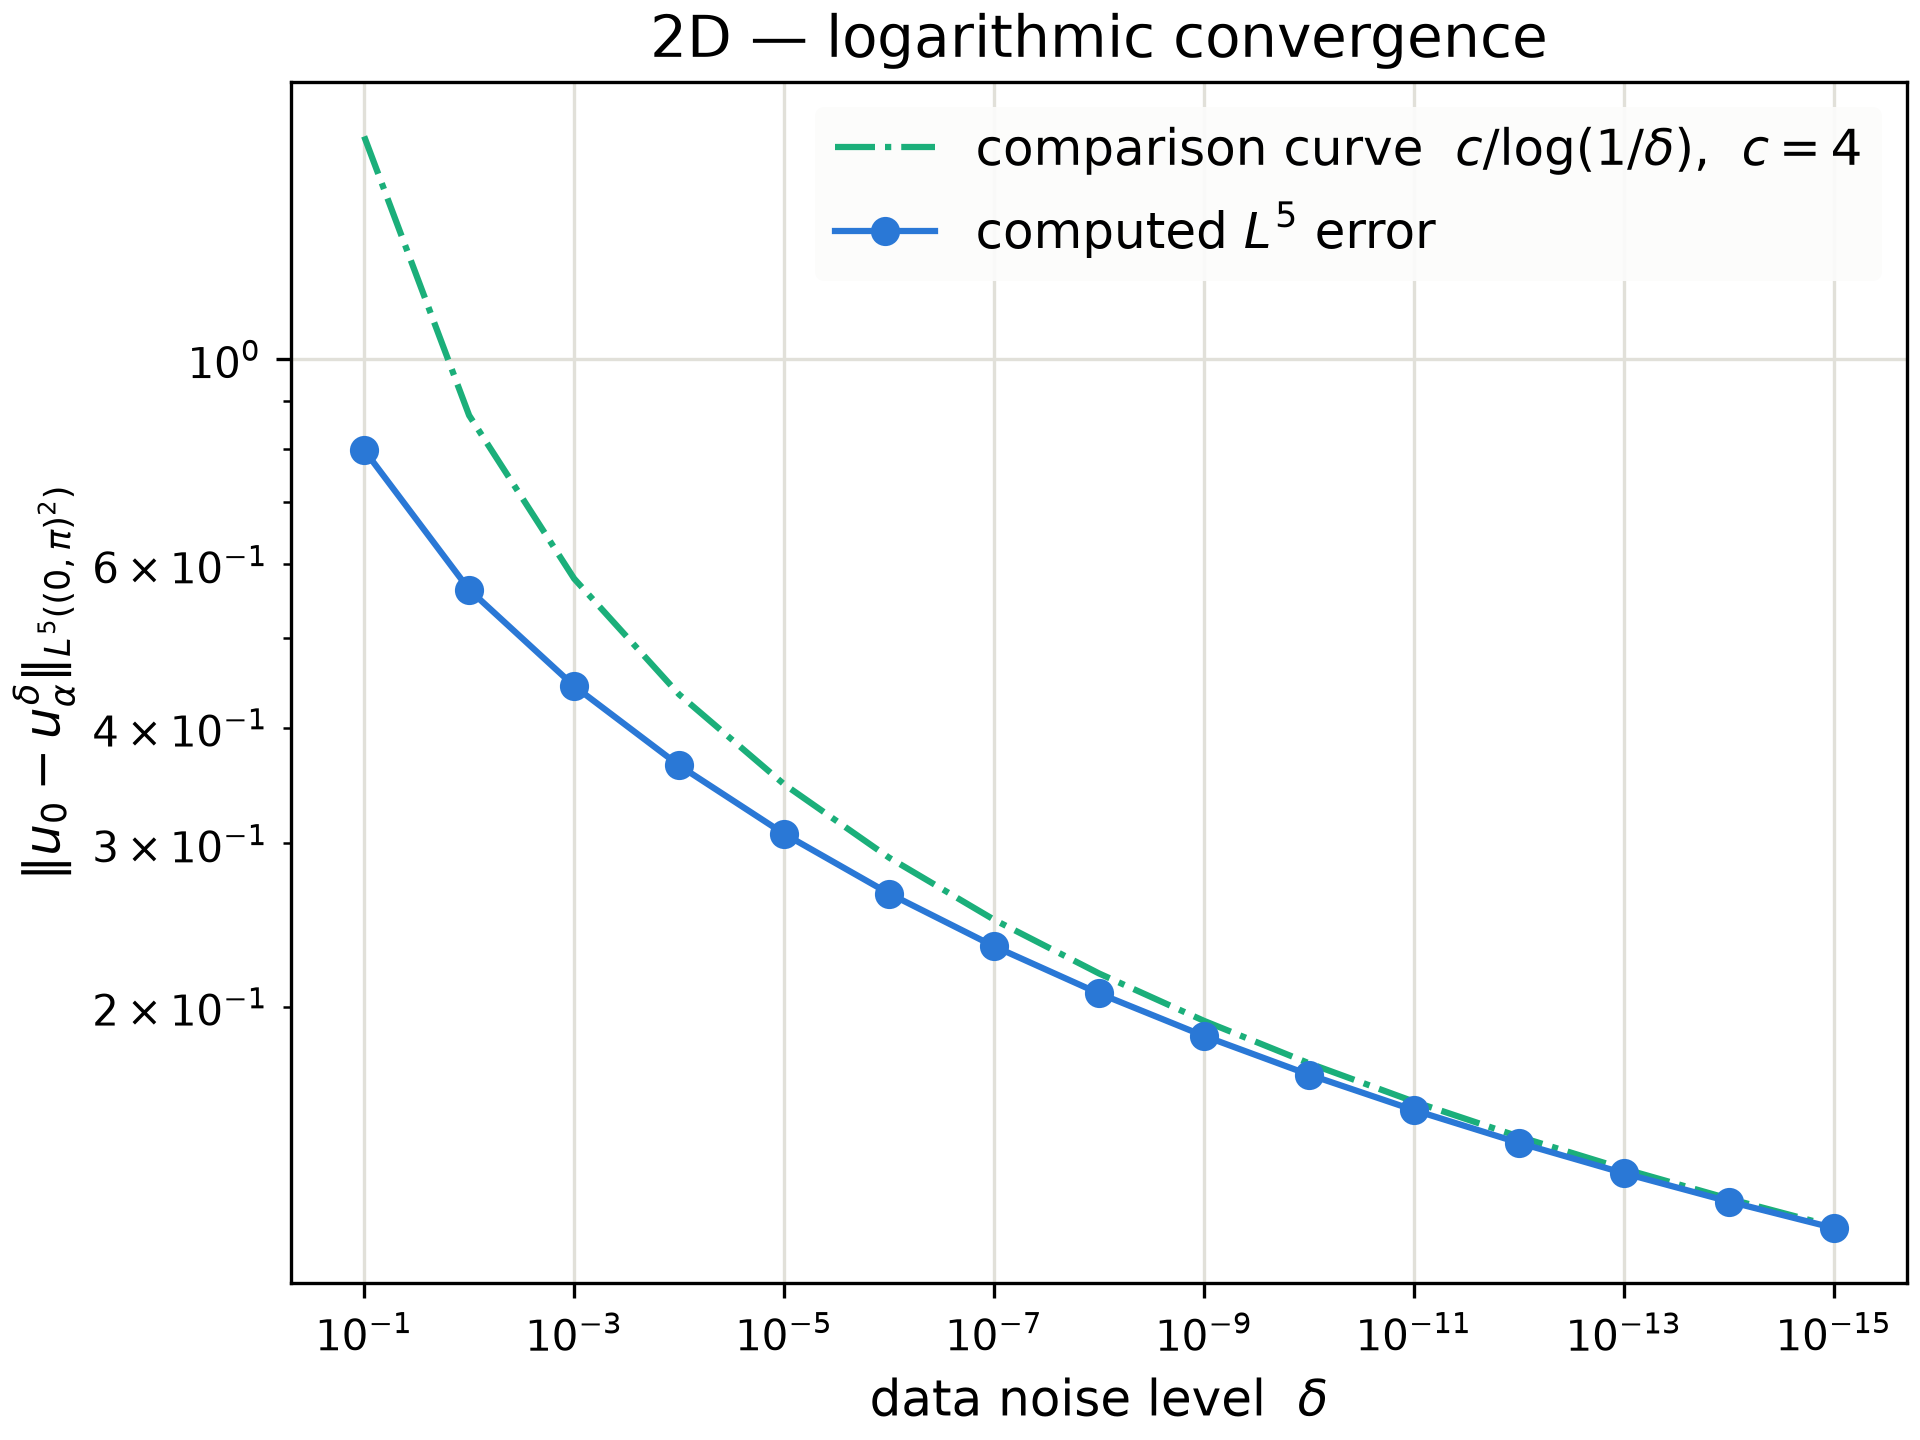
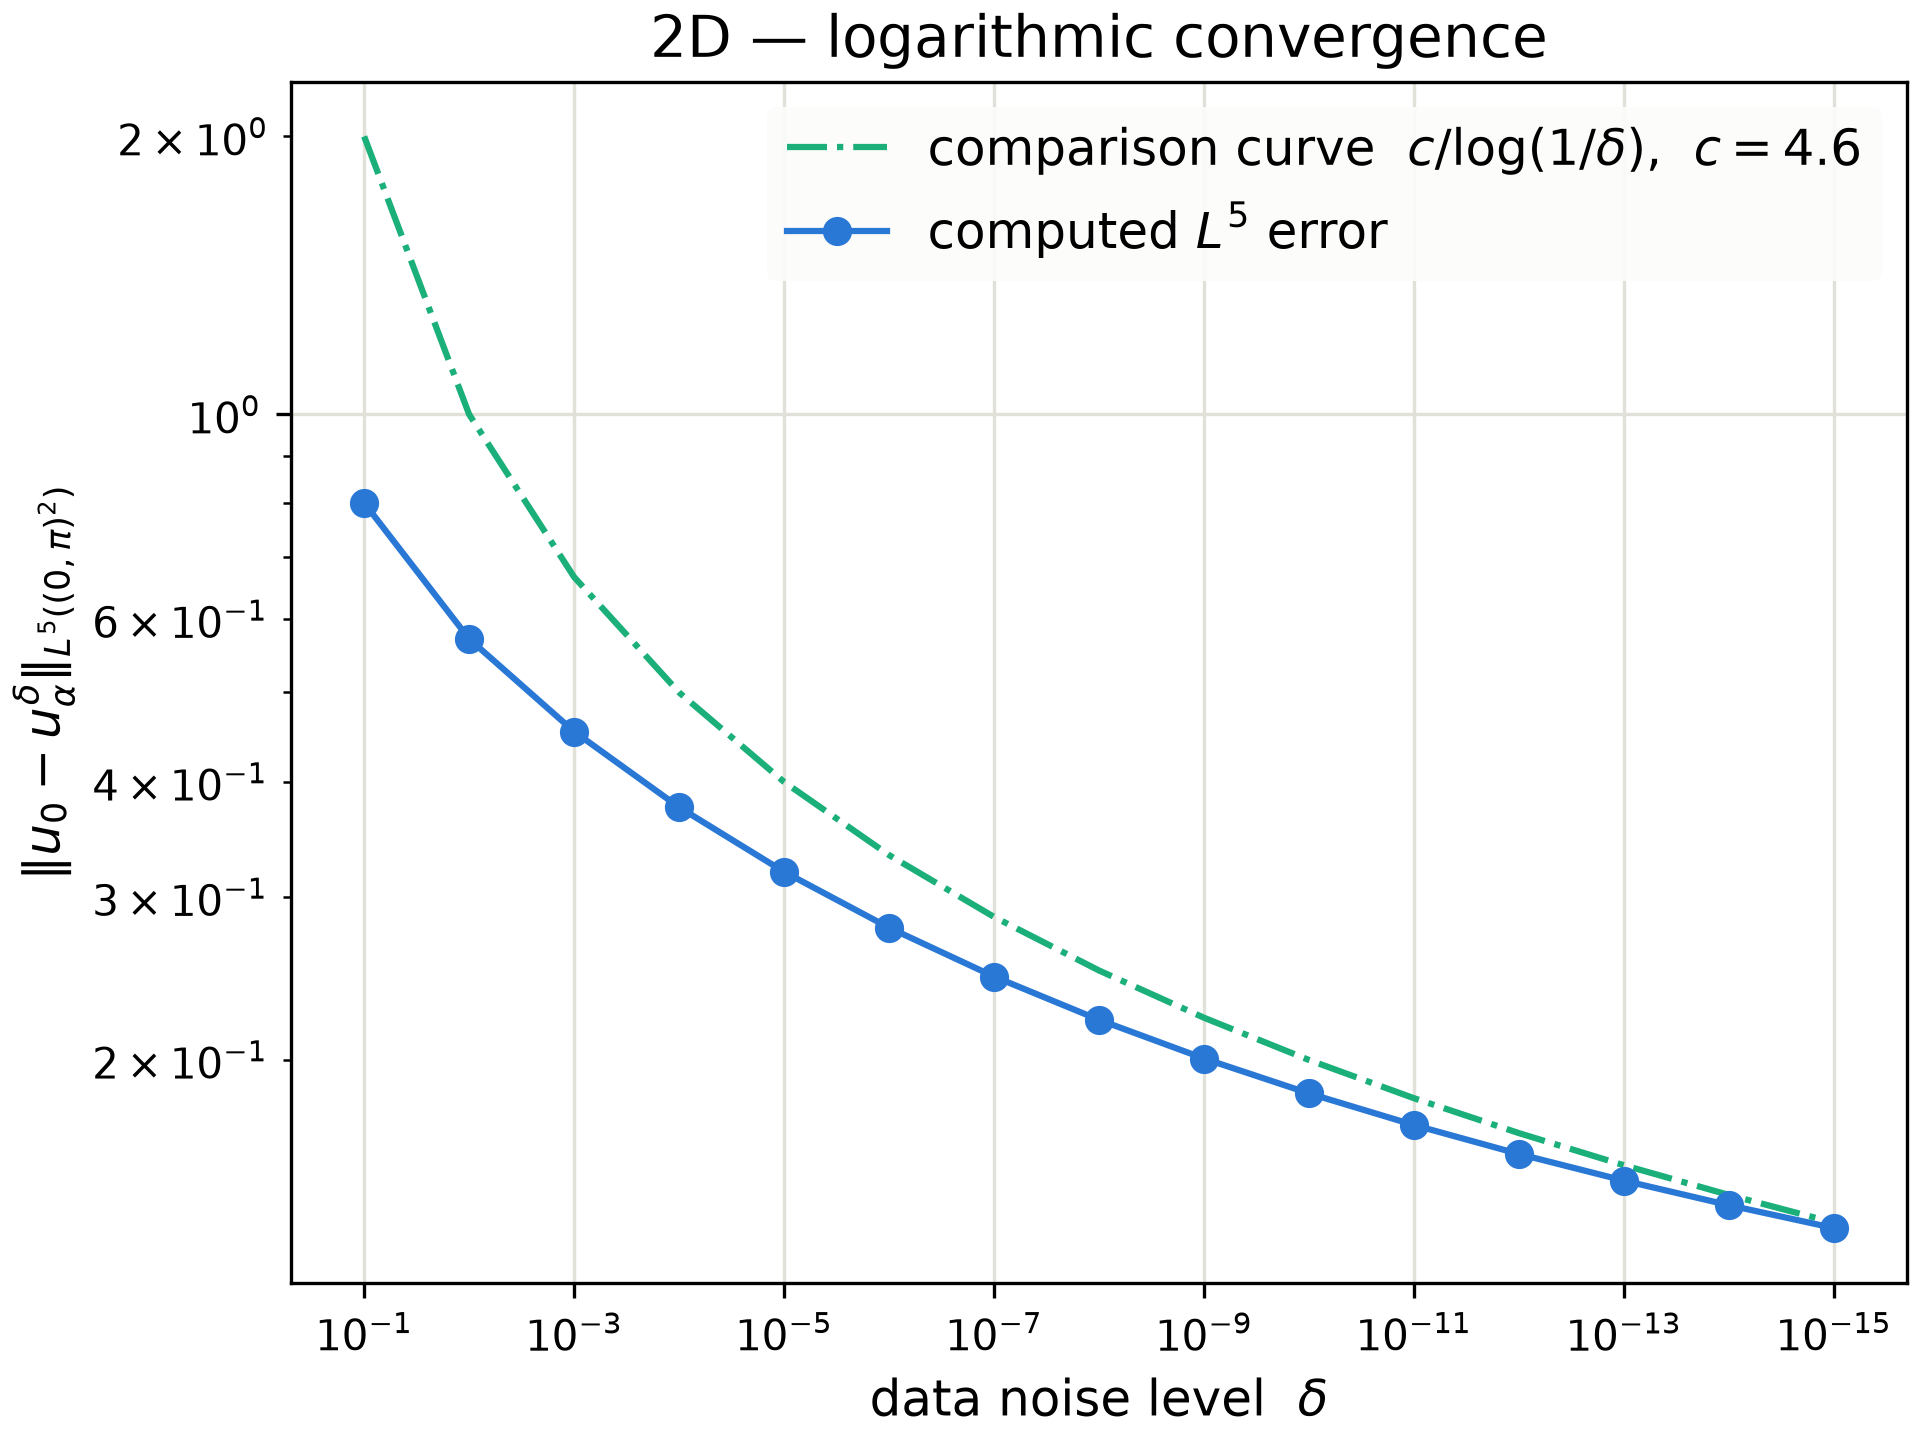
change mesh

diff --git a/QR_backward_diffusion.py b/QR_backward_diffusion.py
@@ -23,6 +23,10 @@ on Omega = (0, pi) and Omega = (0, pi)^2 is demonstrated. The exact solutions ar
     u(x, t)     = exp(-t) sin(x)           on (0, pi),
     u(x, y, t)  = exp(-2t) sin(x) sin(y)   on (0, pi)^2.
 
+The terminal datum is the exact solution at t = T interpolated onto the finite
+element space. In 2D the mesh is quadrilateral with Q1 elements. Besides the figures,
+VTK time series of the exact solution and of every backward solve are written.
+
 Requires Firedrake (https://www.firedrakeproject.org/) and matplotlib.
 
     python QR_backward_diffusion.py --dim 1
@@ -53,7 +57,9 @@ from firedrake import (
     grad,
     inner,
     sin,
+    exp
 )
+from firedrake.output import VTKFile
 from firedrake.pyplot import tripcolor
 
 #--------------------set some constants and parameters--------------------
@@ -67,11 +73,8 @@ S_PURPLE = "#800080"
 S_GREEN = "#008000"
 CURVE_COLOURS = (S_ORANGE, S_PURPLE, S_GREEN)
 
-# ||sin(n x)||_{L^5(0, pi)} = (16/15)^{1/5}. On the square the integral separates and the norm is the product of the 1D norms.
-_L5_INTEGRAL_1D = 16.0 / 15.0
-
 # Prefactors of the comparison curve c / log(1/delta). 
-COMPARISON_CONSTANTS = {1: 1.2, 2: 4.0}
+COMPARISON_CONSTANTS = {1: 1.2, 2: 4.6}
 
 # Which noise levels are drawn, as indices into delta = 10^{-1}, ..., 10^{-15}.
 # One dimension: 1e-1, 1e-2, 1e-7
@@ -79,7 +82,7 @@ COMPARISON_CONSTANTS = {1: 1.2, 2: 4.0}
 _PLOT_FIELDS_1D = (0, 1, 6)
 _PLOT_FIELDS_2D = (0, 2, 14)
 
-#--------------------define some helperfunctions--------------------
+#--------------------define some helper functions--------------------
 def add_legend(ax, **kwargs):
     """Legend with an opaque backing, so lines do not run through the text."""
     return ax.legend(
@@ -95,31 +98,6 @@ def lp_norm(field, p: float) -> float:
     """||field||_{L^p}. For a real field, |field|^p = (field, field)^{p/2}."""
     integrand = inner(field, field) ** (p / 2) * dx
     return float(assemble(integrand) ** (1.0 / p))
-
-
-# def _eigenmode_expression(coords, dim: int, wavenumber: int):
-#     """prod_{i=1}^{dim} sin(wavenumber * x_i), an eigenfunction of -Delta."""
-#     expression = sin(wavenumber * coords[0])
-#     for i in range(1, dim):
-#         expression = expression * sin(wavenumber * coords[i])
-#     return expression
-
-
-#def _noise_amplitude(delta: float, dim: int) -> float:
-#    """
-#    Coefficient of the perturbation mode.
-#
-#    Dividing by the L^5 norm of that mode makes the perturbation itself
-#    have L^5 norm equal to ``delta`` in one dimension. In two dimensions
-#    the same normalization is used and then multiplied by 2, which is the
-#    factor the published figures were computed with: the L^5 norm of the
-#    two-dimensional noise is therefore ``2 * delta``.
-#    """
-#    if dim == 1:
-#        return delta / (_L5_INTEGRAL_1D ** (1.0 / 5.0))
-#    # (16/15)^2 = 256/225 = ||sin(nx) sin(ny)||_{L^5}^5
-#    return 2.0 * delta / ((256.0 / 225.0) ** (1.0 / 5.0))
-
 
 #--------------------define the quasi-reversibility problem--------------------
 class QuasiReversibility:
@@ -141,14 +119,13 @@ class QuasiReversibility:
         if dim == 1:
             self.mesh = IntervalMesh(resolution, 0.0, np.pi)
         else:
-            self.mesh = SquareMesh(resolution, resolution, np.pi)
+            self.mesh = SquareMesh(resolution, resolution, np.pi, quadrilateral=True)
 
         self.dim = dim
         self.final_time = float(final_time)
         self.degree = degree
         self.V = FunctionSpace(self.mesh, "CG", degree)
         self.bc = DirichletBC(self.V, Constant(0.0), "on_boundary")
-        self.coords = SpatialCoordinate(self.mesh)
 
         # Snap dt so that an integer number of steps lands exactly on T.
         self.num_steps = max(1, int(round(self.final_time / dt)))
@@ -159,7 +136,7 @@ class QuasiReversibility:
 
     def initial_state(self) -> Function:
         """
-        Define initial state as a sinus function.
+        Define initial state as a sine function.
         """
         if self.dim == 1:
             x, = SpatialCoordinate(self.mesh)
@@ -169,42 +146,47 @@ class QuasiReversibility:
             expression = sin(x) * sin(y)
         return Function(self.V).interpolate(expression)
 
+    def exact_terminal(self) -> Function:
+        """
+        Define exact terminal state as a sine function.
+        """
+        if self.dim == 1:
+            x, = SpatialCoordinate(self.mesh)
+            expression = exp(-self.final_time) * sin(x)
+        elif self.dim == 2:
+            x,y = SpatialCoordinate(self.mesh)
+            expression = exp(-2*self.final_time) * sin(x) * sin(y)
+        return Function(self.V).interpolate(expression)
+
     def perturb(self, terminal: Function, delta: float) -> Function:
         """
         Copy the terminal Function and add a delta perturbation.
         """
         perturbed = Function(self.V, name=f"terminal_delta_{delta:g}")
-        dim = self.V.mesh().topological_dimension
-        if dim == 1:
-            x, = SpatialCoordinate(self.V.mesh())
+        if self.dim == 1:
+            x, = SpatialCoordinate(self.mesh)
             perturbed.interpolate(terminal + (delta/(16.0/15.0)**(1/5)) * sin(2*x))
-        elif dim == 2:
-            x,y = SpatialCoordinate(self.V.mesh())
+        elif self.dim == 2:
+            x,y = SpatialCoordinate(self.mesh)
             perturbed.interpolate(terminal + delta/(256.0/225.0)**(1/5) * sin(2*x) * sin(2*y))
         return perturbed
 
-    def solve_forward(self, initial: Function) -> Function:
+    def write_exact(self, initial: Function, output: VTKFile) -> None:
         """
-        Integrate the forward heat equation from ``initial`` up to time T.
+        Write the exact solution exp(-dim t) u_0 on the time grid of ``solve_QR``.
         """
-        inv_dt = Constant(1.0 / self.dt)
-        u_prev = Function(self.V)
-        u_prev.assign(initial)
-        u_next = Function(self.V)
+        exact = Function(self.V, name="u_exact")
+        for n in range(self.num_steps + 1):
+            t = self.final_time - n * self.dt
+            exact.assign(np.exp(-self.dim * t) * initial)
+            output.write(exact, time=t)
 
-        # (u^{n+1} - u^n)/dt - Delta u^{n+1} = 0.
-        a = (
-            inv_dt * inner(self._trial, self._test)
-            + inner(grad(self._trial), grad(self._test))
-        ) * dx
-        L = inv_dt * inner(u_prev, self._test) * dx
-
-        for _ in range(self.num_steps):
-            solve(a == L, u_next, self.bc)
-            u_prev.assign(u_next)
-        return u_prev
-
-    def solve_QR(self, terminal: Function, alpha: float) -> Function:
+    def solve_QR(
+        self,
+        terminal: Function,
+        alpha: float,
+        output: VTKFile | None = None,
+    ) -> Function:
         """
         Recover an approximation of u(·, 0) from terminal data.
 
@@ -216,14 +198,20 @@ class QuasiReversibility:
 
         which is the weak form of the quasi-reversibility equation
         (I - alpha Delta) phi = v and v_new = v - dt Delta phi.
+
+        If ``output`` is given, the state is written at every time step.
         """
         inv_dt = Constant(1.0 / self.dt)
         alpha_c = Constant(alpha)
 
-        state = Function(self.V)
+        state = Function(self.V, name="u_alpha_delta")
         state.assign(terminal)
         phi = Function(self.V)
         updated = Function(self.V)
+
+        def write(t: float) -> None:
+            if output is not None:
+                output.write(state, time=t)
 
         # (I - alpha Delta) phi = state, homogeneous Dirichlet conditions.
         a_phi = (
@@ -239,10 +227,12 @@ class QuasiReversibility:
             + inv_dt * inner(state, self._test)
         ) * dx
 
-        for _ in range(self.num_steps):
+        write(self.final_time)
+        for n in range(self.num_steps):
             solve(a_phi == L_phi, phi, self.bc)
             solve(a_state == L_state, updated, self.bc)
             state.assign(updated)
+            write(self.final_time - (n + 1) * self.dt)
         return state
 
 #--------------------define plotting functions--------------------
@@ -411,7 +401,7 @@ def demonstrate_convergence(
 ):
     """
     Sweep delta from 10^{-1} down to 10^{-15} and plot the L^p error.
-    ``comparison_constant`` defaults to 1.2 in 1D and 4 in 2D.
+    ``comparison_constant`` defaults to 1.2 in 1D and 4.6 in 2D.
     Figures are written in the working directory. Set ``show=True`` to
     open them as well.
     """
@@ -425,14 +415,17 @@ def demonstrate_convergence(
 
     problem = QuasiReversibility(dim, T, dt, resolution, degree)
     initial = problem.initial_state()
-    terminal = problem.solve_forward(initial)
+    terminal = problem.exact_terminal()
+
+    problem.write_exact(initial, VTKFile(f"exact_dim_{dim}.pvd"))
 
     perturbed = []
     recovered = []
     errors = []
-    for delta, alpha in zip(deltas, alphas):
+    for i, (delta, alpha) in enumerate(zip(deltas, alphas), start=1):
         noisy = problem.perturb(terminal, float(delta))
-        approximation = problem.solve_QR(noisy, float(alpha))
+        output = VTKFile(f"qr_dim_{dim}_delta_1e-{i}.pvd")
+        approximation = problem.solve_QR(noisy, float(alpha), output=output)
         perturbed.append(noisy)
         recovered.append(approximation)
         errors.append(lp_norm(initial - approximation, norm_p))

diff --git a/README.md b/README.md
@@ -21,12 +21,19 @@ Add `--show` to open the figures after they are saved. They are written to the w
 - `exact_and_recovered_solution_at_t_0_dim_1.png`
 - `exact_and_recovered_solution_at_t_0_and_t_T_dim_2.png`
 
+The script also writes VTK time series that open in [ParaView](https://www.paraview.org/):
+
+- `exact_dim_1.pvd`, `exact_dim_2.pvd`: the exact solution, once per dimension.
+- `qr_dim_{dim}_delta_1e-{i}.pvd`: the regularized backward solve for the noise level $\delta = 10^{-i}$, with 101 snapshots from $t = 1$ down to $t = 0$.
+
+Both use the same time values, so one time slider steps through the exact solution and the recovery together.
+
 ## Experiment
 
-The final time is $T = 1$. The spatial discretization uses continuous piecewise linears on a uniform mesh with 32 cells in each direction, and the time step is $\Delta t = 0.01$. Terminal data are obtained by integrating the forward heat equation with implicit Euler. Noise levels run from $10^{-1}$ to $10^{-15}$. The regularization parameter is
+The final time is $T = 1$. The spatial discretization uses continuous piecewise linear elements on a uniform mesh of $(0,\pi)$ and bilinear ($Q_1$) elements on a uniform quadrilateral mesh of $(0,\pi)^2$, with 32 cells in each direction. The time step is $\Delta t = 0.01$. The terminal datum is the exact solution at $t = T$ interpolated onto the finite element space. Noise levels run from $10^{-1}$ to $10^{-15}$. The regularization parameter is
 
 $$
 \alpha(\delta) = \frac{T}{\log \Big(\frac{a}{\delta (\log 1/\delta)^{\nu}}\Big)}
 $$
 
-with $a = \nu = 1$. The computed $L^5$ error is compared with $c/\log(1/\delta)$, using $c = 1.2$ in one space dimension and $c = 4$ in two.
+with $a = \nu = 1$. The computed $L^5$ error is compared with $c/\log(1/\delta)$, using $c = 1.2$ in one space dimension and $c = 4.6$ in two.
